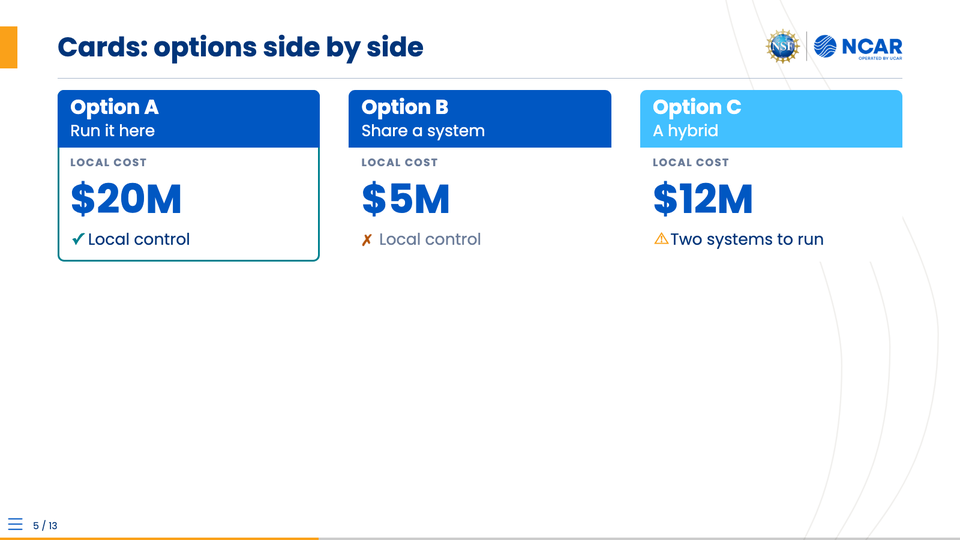
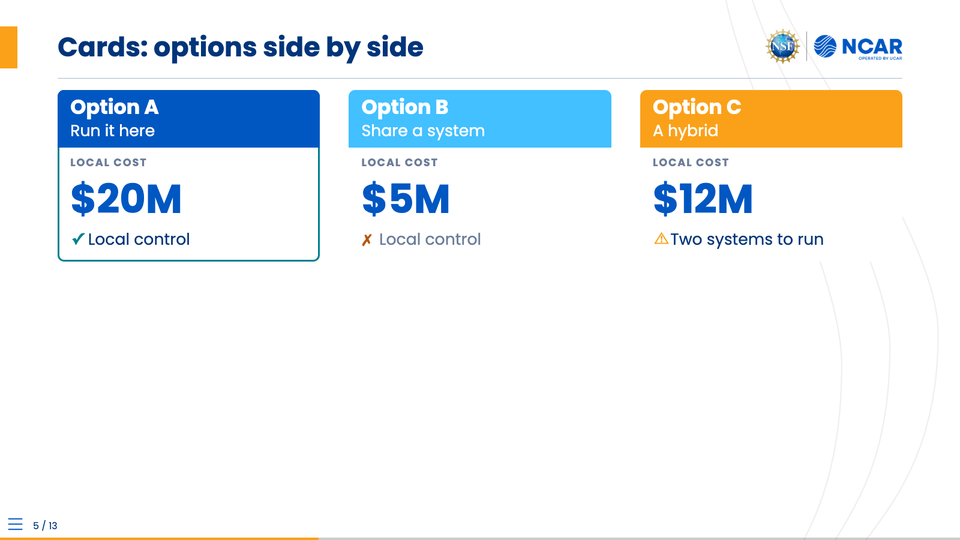
Cards take distinct colors by default: boxes.card.roles, by a card's place in the row
Ben, on the quickstart's card slide: two of the three cards were the same color (ncar's primary
and primary-contrast are both its blue), and a row's cards should differ by default.

A card without role= now takes boxes.card.roles (new, a list of role names; default primary,
secondary, accent: the blue, light blue and orange of Ben's reference slide B) in turn by its
place in its row, the fourth the first again; role= still names it. livery_build.py checks
each is a role (a palette name or a hex would have no LaTeX color or css variable of its own)
and the schema has it; it reaches livery.json, which the filters read (the css and sty skip it).

- engine-common.lua's card_attrs(col, default): the default role is the caller's, by place.
- HTML: card_columns walks each columns div and passes a column its place's role.
- PDF: card_rows takes the roles as an argument (the filter's LIVERY is declared after it).
- pptx: grid-pptx.lua writes no role= when the card has none, and grid.py takes the livery's by
  the card's place in the row (its strip counter, which shadowed the place, renamed).

The quickstart's and the sample's cards drop their explicit roles; authoring.md and the
CHANGELOG say so. 12-cards.png and overview.png reshot.

Tests: test_grid.py, four cards without role= take roles 1, 2, 3, 1 under ncar and nasa-jsc-eg;
test_boxes.py the roles are roles in every livery, and a name that is none fails with its path.
[…]

Changed region(s): [[0.3438, 0.1481, 0.9375, 0.2963]]

diff --git a/_extensions/engine/pptx_steps/grid.py b/_extensions/engine/pptx_steps/grid.py
@@ -311,6 +311,9 @@ def _role(attrs, default="primary"):
     return r if r in LIVERY["roles"] else default
 
 
+ROLES = BOXES["card"]["roles"]   # a card without role=: by its place in the row
+
+
 def draw_cards(slide, columns, frames, y, room, n_col, slide_height):
     """A row of cards (and plain columns beside them): each card a head band in its role over a
     body on boxes.card.fill (all of it the role's on a .solid card), rounded by card.radius, a
@@ -322,7 +325,7 @@ def draw_cards(slide, columns, frames, y, room, n_col, slide_height):
     hv, hh = pads("card", "head-pad")
     bv, bh = pads("card", "pad")
     cards = []
-    for (_, attrs, paras), (x, w) in zip(columns, frames):
+    for k, ((_, attrs, paras), (x, w)) in enumerate(zip(columns, frames), 1):
         n_col += 1
         if not attrs.get("card"):
             cards.append(dict(plain=body_box(slide, x, y, w, room, _flat(paras), f"Column {n_col}"), attrs=attrs))
@@ -333,7 +336,7 @@ def draw_cards(slide, columns, frames, y, room, n_col, slide_height):
         if hb is not None:
             hb.text_frame.margin_top = hb.text_frame.margin_bottom = hv
             hb.text_frame.margin_left = hb.text_frame.margin_right = hh
-        parts, run, k = [], [], 0   # the body: text boxes and strips, in order
+        parts, run, n_strip = [], [], 0   # the body: text boxes and strips, in order
         def text_part():
             nonlocal run
             if run or not parts:
@@ -345,8 +348,8 @@ def draw_cards(slide, columns, frames, y, room, n_col, slide_height):
         for it in items:
             if isinstance(it, tuple):
                 text_part() if run else None
-                k += 1
-                tb, r = draw_strip(slide, x, y, w, room, it[2], _role(it[1], "accent"), solid, f"Card {n_col} strip {k}")
+                n_strip += 1
+                tb, r = draw_strip(slide, x, y, w, room, it[2], _role(it[1], "accent"), solid, f"Card {n_col} strip {n_strip}")
                 parts.append(("strip", tb, r, tb.height))
             else:
                 run.append(it)
@@ -355,14 +358,14 @@ def draw_cards(slide, columns, frames, y, room, n_col, slide_height):
         first = hb if hb is not None else parts[0][1]
         head_h = _card_height(hb, slide) if hb is not None else 0
         body_h = sum(h for _, _, _, h in parts)   # measured, no slack: the last part runs to the foot
-        cards.append(dict(attrs=attrs, x=x, w=w, n=n_col, hb=hb, parts=parts, first=first, head_h=head_h, h=head_h + body_h))
+        cards.append(dict(attrs=attrs, k=k, x=x, w=w, n=n_col, hb=hb, parts=parts, first=first, head_h=head_h, h=head_h + body_h))
     total = min(int(max(c["h"] for c in cards if "plain" not in c) * SLACK), room)   # the slack once, at the foot
     for c in cards:
         if "plain" in c:
             c["plain"].top, c["plain"].height = y, total
             continue
         attrs, x, w, n, hb, head_h = c["attrs"], c["x"], c["w"], c["n"], c["hb"], c["head_h"]
-        role, solid = _hex(_role(attrs)), attrs.get("solid")
+        role, solid = _hex(_role(attrs, ROLES[(c["k"] - 1) % len(ROLES)])), attrs.get("solid")
         _shape(slide, x, y, w, total, radius, role if solid else card["fill"], f"Card {n}", behind=c["first"])
         if hb is not None and not solid:   # rounded at the top only, square where the body starts
             _shape(slide, x, y, w, head_h, radius, role, f"Card {n} head", behind=c["first"])

diff --git a/tests/test_grid.py b/tests/test_grid.py
@@ -31,6 +31,8 @@ CARDS = ('## Cards\n\n:::: {.columns}\n'
          '- one\n- two\n- three\n:::\n'
          '::: {.column .card role="secondary"}\n### OPTION 2\nShort.\n:::\n'
          '::: {.column .card .solid role="accent"}\n### OPTION 3\nSolid.\n:::\n::::\n')
+DEFAULTS = ('## Default roles\n\n:::: {.columns}\n' + ''.join(f'::: {{.column .card}}\n### {t}\nText.\n:::\n' for t in 'ABCD')
+            + '::::\n')
 WIDE = "\n::: notes\nengine-layout: wide\n:::\n"
 MD = ('## Split\n\n:::: {.columns}\n::: {.column width="55%"}\n- One\n- Two\n:::\n::: {.column}\n![](p.jpg)\n:::\n::::\n\n'
       '## Wide\n\n:::: {.columns}\n::: {.column}\nLeft\n:::\n::: {.column}\nRight\n:::\n::::\n' + WIDE + '\n'
@@ -38,7 +40,7 @@ MD = ('## Split\n\n:::: {.columns}\n::: {.column width="55%"}\n- One\n- Two\n:::
       '## Three\n\n:::: {.columns}\n::: {.column}\n- AAA\n- aaa\n:::\n::: {.column}\nBBB\n:::\n::: {.column}\nCCC\n:::\n::::\n\n'
       '## Lead\n\n::: {.lead}\n**The headline**\nA plain line under it.\n:::\n\n'
       ':::: {.columns}\n::: {.column}\nLLL\n:::\n::: {.column}\nMMM\n:::\n::::\n\n'
-      '## Lead alone\n\n::: {.lead}\nOnly a lead.\n:::\n\n' + CARDS)
+      '## Lead alone\n\n::: {.lead}\nOnly a lead.\n:::\n\n' + CARDS + '\n' + DEFAULTS)
 STEP = """
 import sys
 from pathlib import Path
@@ -139,9 +141,9 @@ def test_column_rules(deck):
     w = round(livery["boxes"]["columns"]["rule"] * prs.slide_height)
     counts = [sum(sh.name == "Column rule" for sh in s.shapes) for s in prs.slides]
     if w == 0:
-        assert counts == [0] * 7, f"rules under a livery without one: {counts}"
+        assert counts == [0] * 8, f"rules under a livery without one: {counts}"
         return
-    assert counts == [1, 1, 0, 2, 1, 0, 2], f"rules per slide {counts}, want one per gap"
+    assert counts == [1, 1, 0, 2, 1, 0, 2, 3], f"rules per slide {counts}, want one per gap"
     slide = prs.slides[3]
     cols = sorted((sh for sh in slide.shapes if re.fullmatch(r"Column \d+", sh.name)), key=lambda sh: sh.name)
     for rule, (a, b) in zip(sorted((sh for sh in slide.shapes if sh.name == "Column rule"), key=lambda sh: sh.left), zip(cols, cols[1:])):
@@ -237,3 +239,13 @@ def test_strip(deck):
     above, below = by["Card 1 body"], by["Card 1 body 3"]
     assert above.top + above.height <= strip.top and strip.top + strip.height <= below.top, "the strip between the body's text"
     assert "one" in below.text_frame.text and "$20M" in above.text_frame.text, "the text on each side"
+
+
+def test_default_roles(deck):
+    """Cards without role= take boxes.card.roles in turn by their place in the row, the fourth the
+    first again: no two neighbors alike."""
+    livery, prs, _ = deck
+    by = {sh.name: sh for sh in prs.slides[7].shapes}
+    roles = livery["boxes"]["card"]["roles"]
+    want = [livery["roles"][roles[k % len(roles)]][1:] for k in range(4)]
+    assert [str(by[f"Card {n} head"].fill.fore_color.rgb) for n in (1, 2, 3, 4)] == want, "the heads' roles by place"

diff --git a/_extensions/engine/livery_build.py b/_extensions/engine/livery_build.py
@@ -103,7 +103,8 @@ BOXES = {
     "panel": {"pad": [0.6, 0.9]},   # the feature panel
     "lead": {"fill": "surface", "bar": 0.0089, "bar-color": "accent", "pad": [0.55, 0.9]},
     "card": {"fill": "background", "radius": 0, "outline": 0.0033, "outline-color": "highlight",
-             "pad": [0.5, 0.8], "head-pad": [0.35, 0.8]},
+             "pad": [0.5, 0.8], "head-pad": [0.35, 0.8],
+             "roles": ["primary", "secondary", "accent"]},   # a card without role=: by its place in the row
     "strip": {"tint": 0.18, "pad": [0.3, 0.8]},   # 0.18: caution-fill's share (BLENDS), one tint recipe
     "status": {"done": "highlight", "warn": "warning", "fail": "accent"},   # the ✓ ⚠ ✗ glyphs
 }
@@ -236,7 +237,7 @@ def resolve(d: Path) -> tuple[dict, dict]:
     out["marking"] = marking(data.get("marking") or {}, out,   # its colors as hex: a role, a palette name or a hex
                              lambda c, k: roles.get(c) or hex_of(c, ("livery.yml", f"marking.{k}")))
     out["boxes"] = boxes(data.get("boxes") or {},   # its colors as hex, as marking's
-                         lambda c, k: roles.get(c) or hex_of(c, ("livery.yml", f"boxes.{k}")))
+                         lambda c, k: roles.get(c) or hex_of(c, ("livery.yml", f"boxes.{k}")), roles)
     out["compositions"] = compositions(d.name, data, out)
     out["type"] = type_scale(d.name, data)
     try:   # the chart colors, per mode (livery_charts.py; livery.yml charts:)
@@ -270,7 +271,7 @@ def marking(m: dict, out: dict, hexof) -> dict:
     return m
 
 
-def boxes(b: dict, hexof) -> dict:
+def boxes(b: dict, hexof, roles=()) -> dict:
     """The boxes: block resolved: BOXES with the livery's keys over them, box by box, the colors as hex
     (hexof: a role, a palette name or a hex to its hex, given the key's path under boxes)."""
     out = {}
@@ -278,6 +279,10 @@ def boxes(b: dict, hexof) -> dict:
         v = {**defaults, **(b.get(box) or {})}
         for k in BOX_COLORS.get(box, ()):
             v[k] = hexof(v[k], f"{box}.{k}")
+        for i, r in enumerate(v.get("roles", [])):   # role names: every format names the role's own color
+            hexof(r, f"{box}.roles[{i}]")
+            if roles and (r.startswith("#") or r not in roles):
+                sys.exit(f"livery.yml: boxes.{box}.roles[{i}]: {r!r} is not a role")
         out[box] = v
     return out
 
@@ -822,6 +827,8 @@ def emit_sty_boxes(livery: dict) -> list[str]:
     for box, v in livery["boxes"].items():
         for k, val in v.items():
             name = k.replace("-", "")
+            if k == "roles":   # role names, read from livery.json by the filters
+                continue
             if k in BOX_COLORS.get(box, ()):
                 tex = f"EngineStatus{tex_camel(k)}" if box == "status" else f"EngineBoxes{tex_camel(box)}{tex_camel(k)}"
                 L.append(f"\\definecolor{{{tex}}}{{HTML}}{{{val[1:]}}}")

diff --git a/tests/test_boxes.py b/tests/test_boxes.py
@@ -35,7 +35,9 @@ def test_every_key(livery):
         assert set(b[box]) == set(keys), f"{livery.name}: boxes.{box} keys {sorted(b[box])}"
         for k, v in b[box].items():
             where = f"{livery.name}: boxes.{box}.{k} = {v!r}"
-            if k in lb.BOX_COLORS.get(box, ()):
+            if k == "roles":
+                assert v and all(r in json.loads((livery / "build" / "livery.json").read_text())["roles"] for r in v), f"{where}: not roles"
+            elif k in lb.BOX_COLORS.get(box, ()):
                 assert HEX.match(v), f"{where} is not #RRGGBB"
             elif k in FRACTIONS:
                 assert isinstance(v, (int, float)) and 0 <= v <= 1, f"{where} is not a fraction"
@@ -85,6 +87,7 @@ def test_colors_resolve(tmp_path):
     ("  lead: {fill: nope}\n", "boxes.lead.fill: 'nope' is neither a palette name nor a hex value"),
     ("  columns: {gap: 1.5}\n", "boxes.columns.gap: 1.5 is greater than the maximum of 1"),
     ("  caution: {pad: [0.5]}\n", "boxes.caution.pad: "),
+    ("  card: {roles: [primary, nope]}\n", "boxes.card.roles[1]: 'nope' is neither"),
 ])
 def test_refused_with_path(tmp_path, boxes, expect):
     rc, err, _ = tmp_livery(tmp_path, boxes)

diff --git a/docs/authoring.md b/docs/authoring.md
@@ -135,7 +135,7 @@ Each trades local capacity against a share of the consortium system.
 :::
 
 :::: {.columns}
-::: {.column .card .pick role="primary"}
+::: {.column .card .pick}
 ### OPTION 1
 [A modern GPU system]{.sub}
 
@@ -151,7 +151,7 @@ Each trades local capacity against a share of the consortium system.
 - [!] High-resolution runs
 - [-] Interactive analysis
 :::
-::: {.column .card role="secondary"}
+::: {.column .card}
 ...
 :::
 ::::
@@ -160,8 +160,9 @@ Each trades local capacity against a share of the consortium system.
 - **`::: {.lead}`** sets its lines on the livery's lead fill with an accent bar at its left.
   In a lead and in a card each source line is a line: no blank line between the bold headline
   and the line under it.
-- **`.card`** on a column draws a head band in its `role=` (any livery role; default `primary`)
-  over a body. The `###` is the band's title, a `[...]{.sub}` paragraph right after it the band's
+- **`.card`** on a column draws a head band in its `role=` (any livery role) over a body. A card
+  without one takes the livery's `boxes.card.roles` in turn by its place in the row (by default
+  primary, secondary, accent), so a row's cards differ. The `###` is the band's title, a `[...]{.sub}` paragraph right after it the band's
   second line. `.pick` outlines the chosen card; `.solid` makes the whole card the role's color,
   its text white. A row's cards are one height.
 - **`[...]{.label}`** is a small capitals label, **`[...]{.big}`** a big number, each on a line

diff --git a/CHANGELOG.md b/CHANGELOG.md
@@ -55,8 +55,9 @@ A release's entry is written here before its tag is pushed, and becomes its note
 - A lead box, `::: {.lead}`, before a slide's columns or alone: its lines on the livery's lead
   fill with an accent bar at its left, in every format (pptx: native shapes and a text box). In a
   lead each source line is a line: a bold headline over a plain line needs no blank line.
-- Cards: `::: {.column .card role="primary"}` with a `###` title and an optional `[...]{.sub}`
-  line draws a head band in the role over a body; `.pick` outlines the chosen card, `.solid`
+- Cards: `::: {.column .card}` with a `###` title and an optional `[...]{.sub}` line draws a head
+  band over a body, in its `role=` or else the livery's `boxes.card.roles` by its place in the row
+  (primary, secondary, accent), so a row's cards differ; `.pick` outlines the chosen card, `.solid`
   fills the whole card with the role; `[LOCAL INVESTMENT]{.label}` and `[$20M]{.big}` are a small
   caps label and a big number. A row's cards are one height, in every format; pptx draws them as
   native shapes and text boxes, editable in PowerPoint. A picture or table in a card is not drawn

diff --git a/liveries/REFERENCE.md b/liveries/REFERENCE.md
@@ -472,6 +472,7 @@ A card (`::: {.column .card}`): a colored head band over a body.
 | `outline-color` | color or role | `"highlight"` | That outline's color, a role, a palette name or a hex. |
 | `pad` | [vertical, horizontal] em | `[0.5, 0.8]` | Its body's text from the card's edges, in em of the body type. |
 | `head-pad` | [vertical, horizontal] em | `[0.35, 0.8]` | The head band's text from its edges, in em of the body type. |
+| `roles` | list of roles | `["primary", "secondary", "accent"]` | The roles a card without role= takes by its place in the row, in turn: the first card the first role. |
 
 ### `boxes.strip`
 
